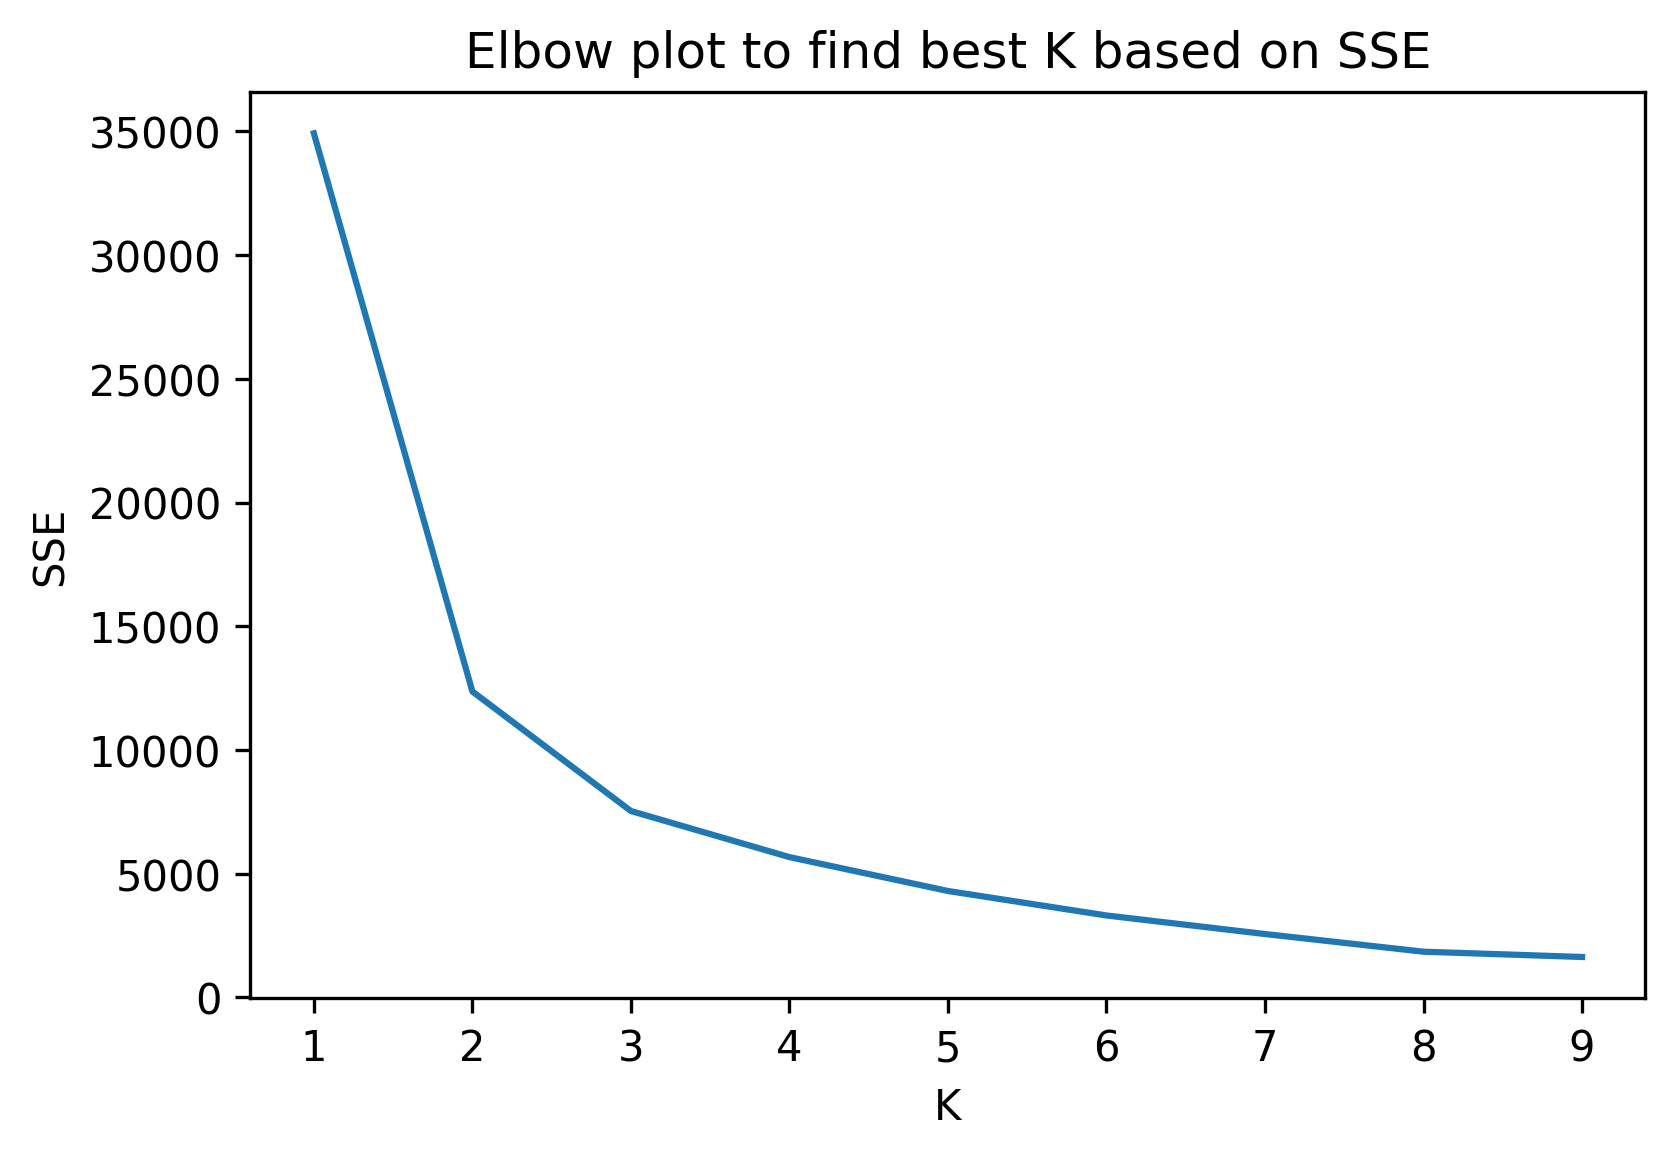
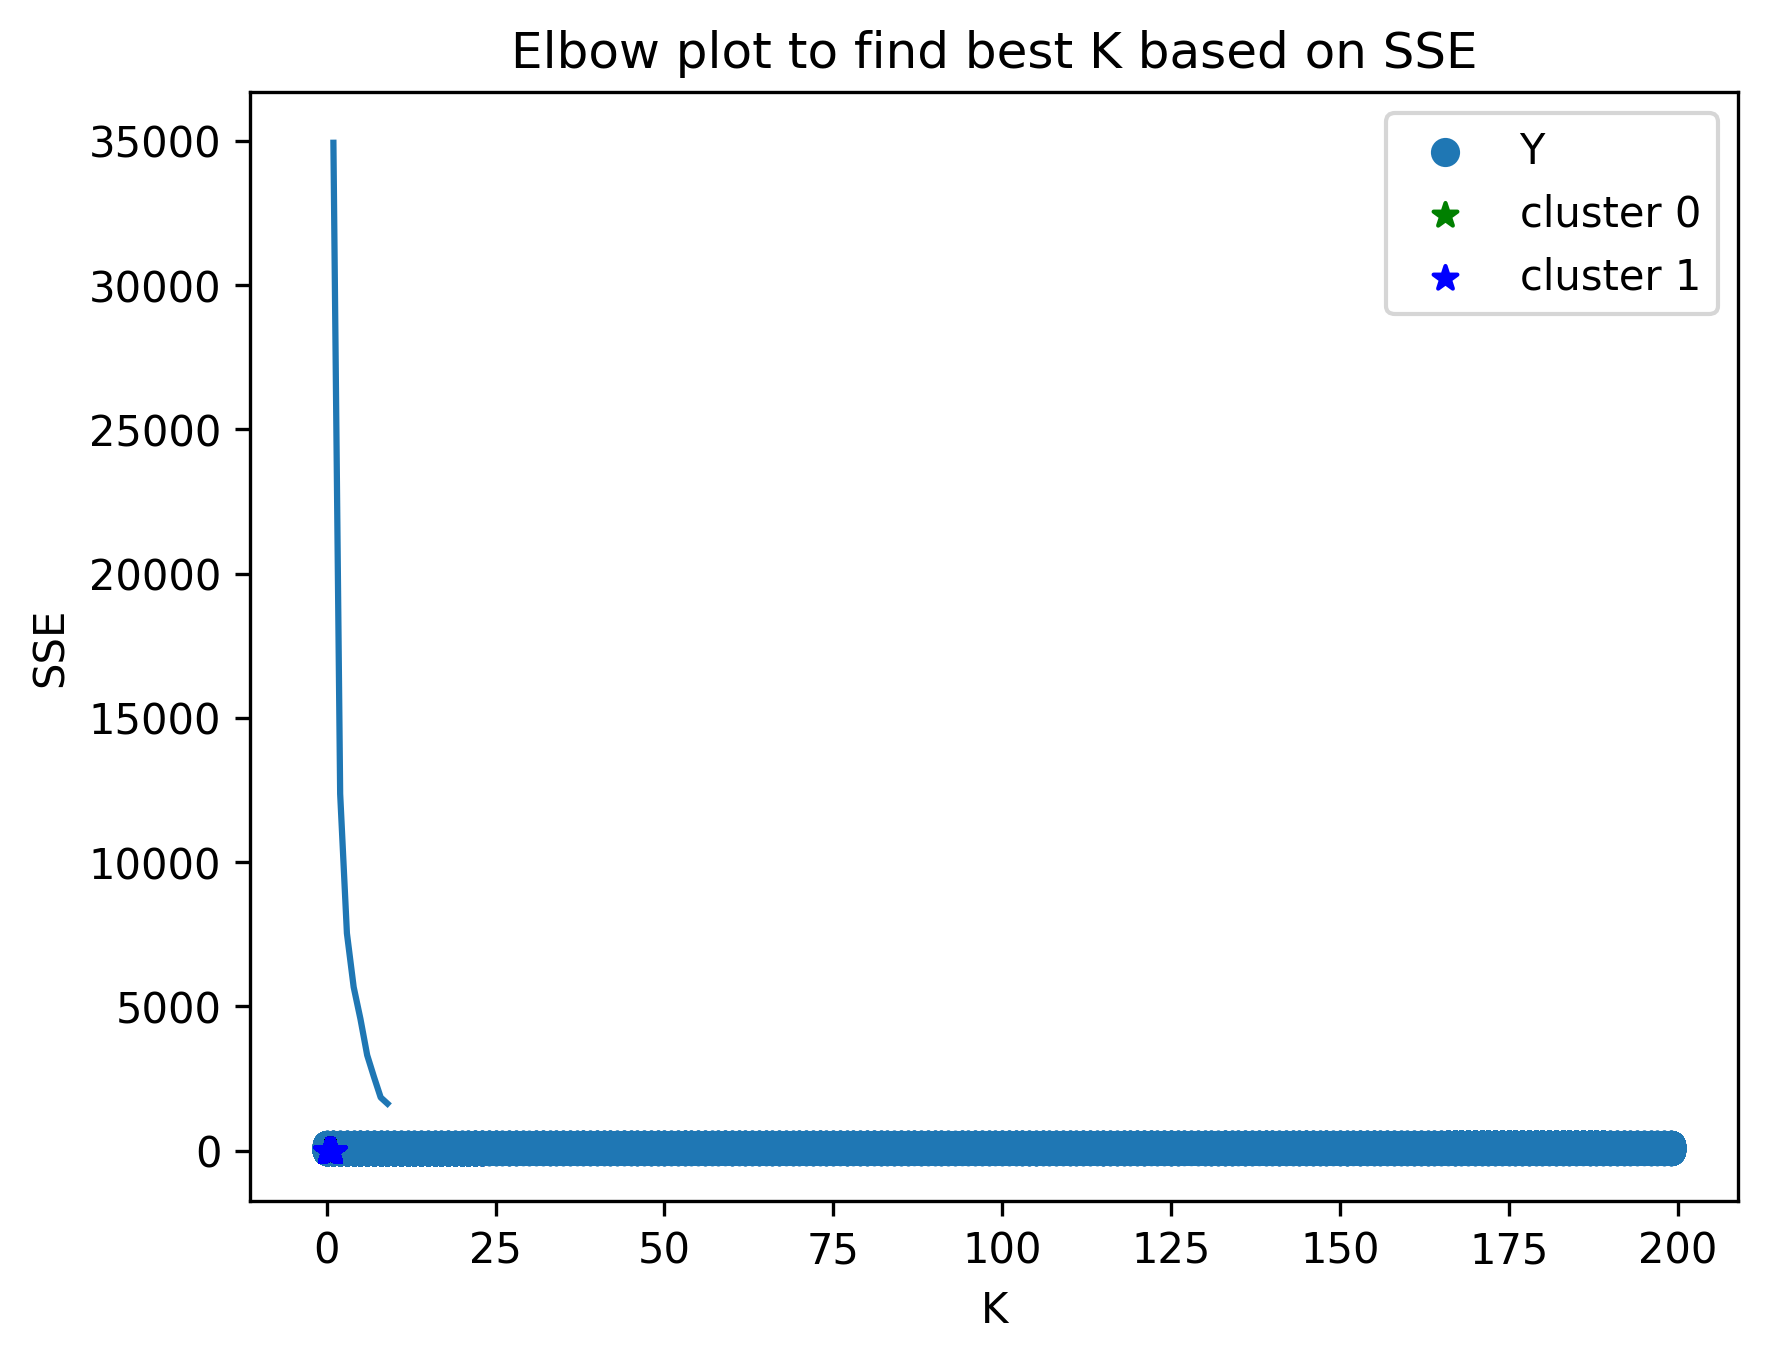
Added py from gc instance1

diff --git a/clustering_kmeans_kmedoids.py b/clustering_kmeans_kmedoids.py
@@ -1,0 +1,119 @@
+
+from sklearn.cluster import KMeans
+
+import pandas as pd
+import numpy as np
+from sklearn.preprocessing import MinMaxScaler
+from matplotlib import pyplot as plt
+
+# for medoids
+# from sklearn_extra.cluster import KMedoids # no way to install
+from pyclustering.cluster.kmedoids import kmedoids
+from pyclustering.utils import read_sample
+from pyclustering.cluster import cluster_visualizer
+import time
+
+# %matplotlib inline
+
+k = 2
+colors = ['green', 'blue', 'orange', 'red', 'purple', 'yellow', 'cyan', 'black', 'pink', 'sky']
+
+df = pd.read_csv('rawdata200K.dat', delim_whitespace=True)
+df.columns = ["X", "Y"]
+df.isnull().sum()
+
+
+plt.scatter(df.X, df.Y)
+plt.title('Scatter plot of X, Y')
+plt.xlabel('X')
+plt.ylabel('Y')
+
+plt.savefig('images/scatter-plot.png', dpi=300, bbox_inches='tight')
+plt.show()
+
+
+# Find kMeans
+# For capturing the execution time 
+# Scale data
+scaler = MinMaxScaler()
+df.X = scaler.fit(df[['X']]).transform(df[['X']])
+df.Y = scaler.fit(df[['Y']]).transform(df[['Y']])
+
+start = time.time()
+k_means = KMeans(n_clusters=k)
+cluster = k_means.fit_predict(df[['X', 'Y']])
+df['cluster'] = cluster
+end = time.time()
+print(end-start)
+
+# Visualize cluster
+dfs = []
+for i in range(0,k):
+    dfs.append(df[df.cluster==i])
+
+# Plot it
+for i in range(0,k):
+    plt.scatter(dfs[i].X, dfs[i].Y, color=colors[i], marker='*', label='cluster ' + str(i))
+    
+plt.title('Scatter plot of scaled X, Y using K Means with K='+str(k))
+plt.xlabel('X')
+plt.ylabel('Y')
+plt.legend()
+
+plt.savefig('images/scatter-plot-kmeans-scaled-k-'+str(k)+'.png', dpi=300, bbox_inches='tight')
+plt.show()
+
+
+# Elbow plot method - find best k value
+# For capturing the execution time 
+start = time.time()
+k_list = range(1, 10)
+sse = []
+
+for k_i in k_list:
+    k_means = KMeans(n_clusters=k_i)
+    k_means.fit(df[['X', 'Y']])
+    sse.append(k_means.inertia_)
+    
+end= time.time()
+print(end - start)
+
+
+plt.title('Elbow plot to find best K based on SSE')
+
+plt.xlabel('K')
+plt.ylabel('SSE')
+plt.plot(k_list, sse)
+
+plt.savefig('images/elbow-kmeans-scaled.png', dpi=300, bbox_inches='tight')
+plt.show()
+
+# K Medoids from pyclustering
+start = time.time()
+
+sample = df.values.tolist() # read_sample('./rawdata10K.dat')
+
+# find clusteroids
+clusteroids = []
+for i in range(0,k):
+    clusteroids.append(i)
+    
+    
+k_medoids_instance = kmedoids(sample, clusteroids)
+k_medoids_instance.process()
+clusters = k_medoids_instance.get_clusters()
+medoids = k_medoids_instance.get_medoids()
+end = time.time()
+
+print(end-start)
+
+print(medoids)
+
+# Display clusters.
+visualizer = cluster_visualizer()
+visualizer.set_canvas_title('KMedoids clustering with K='+str(k))
+visualizer.append_clusters(clusters, sample)
+visualizer.show()
+
+
+
